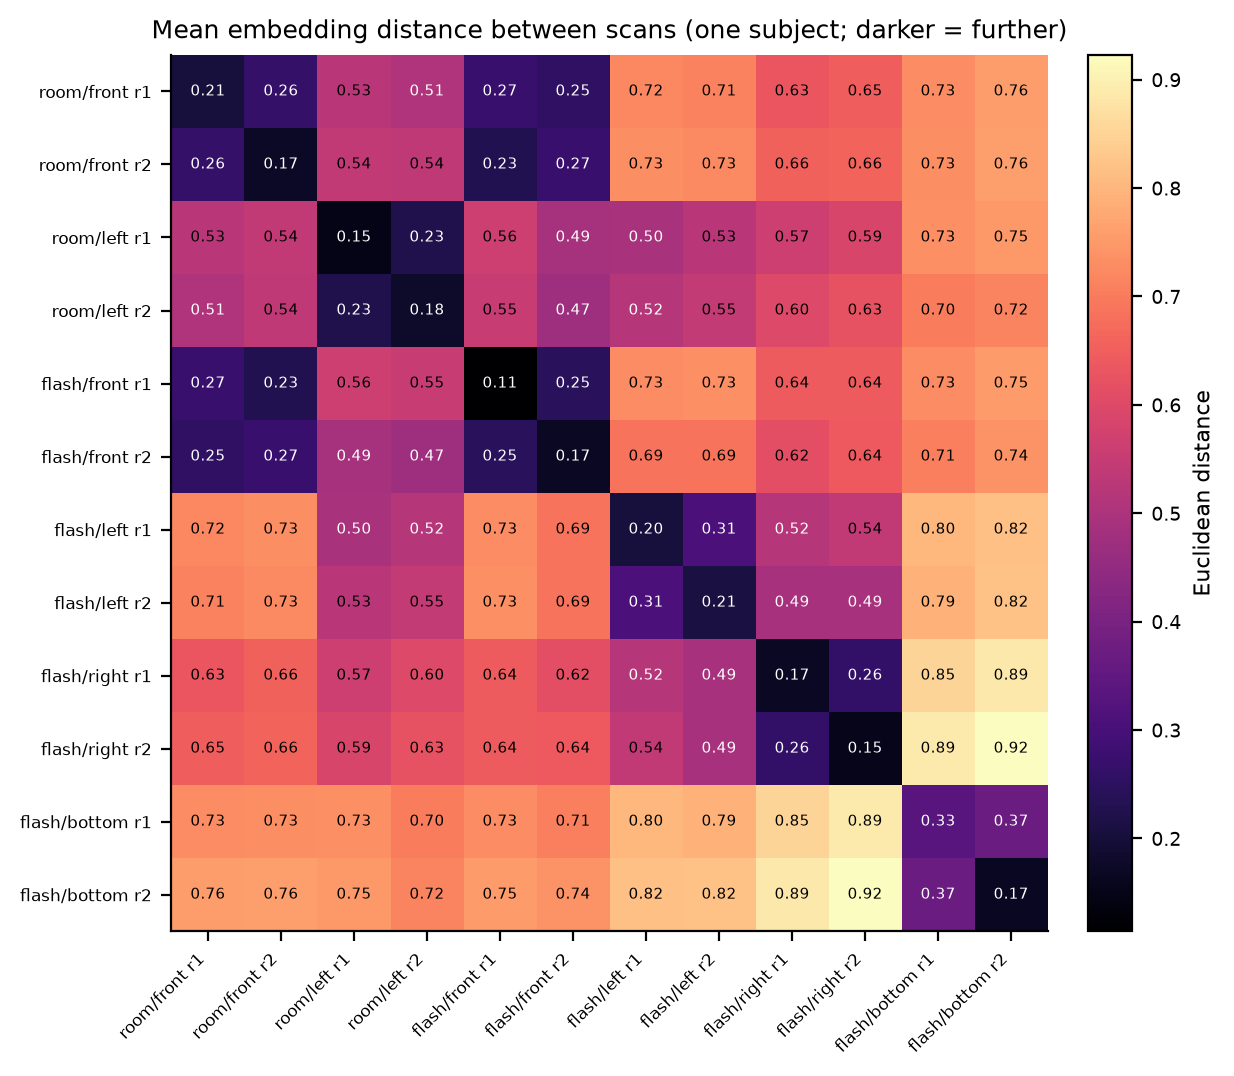
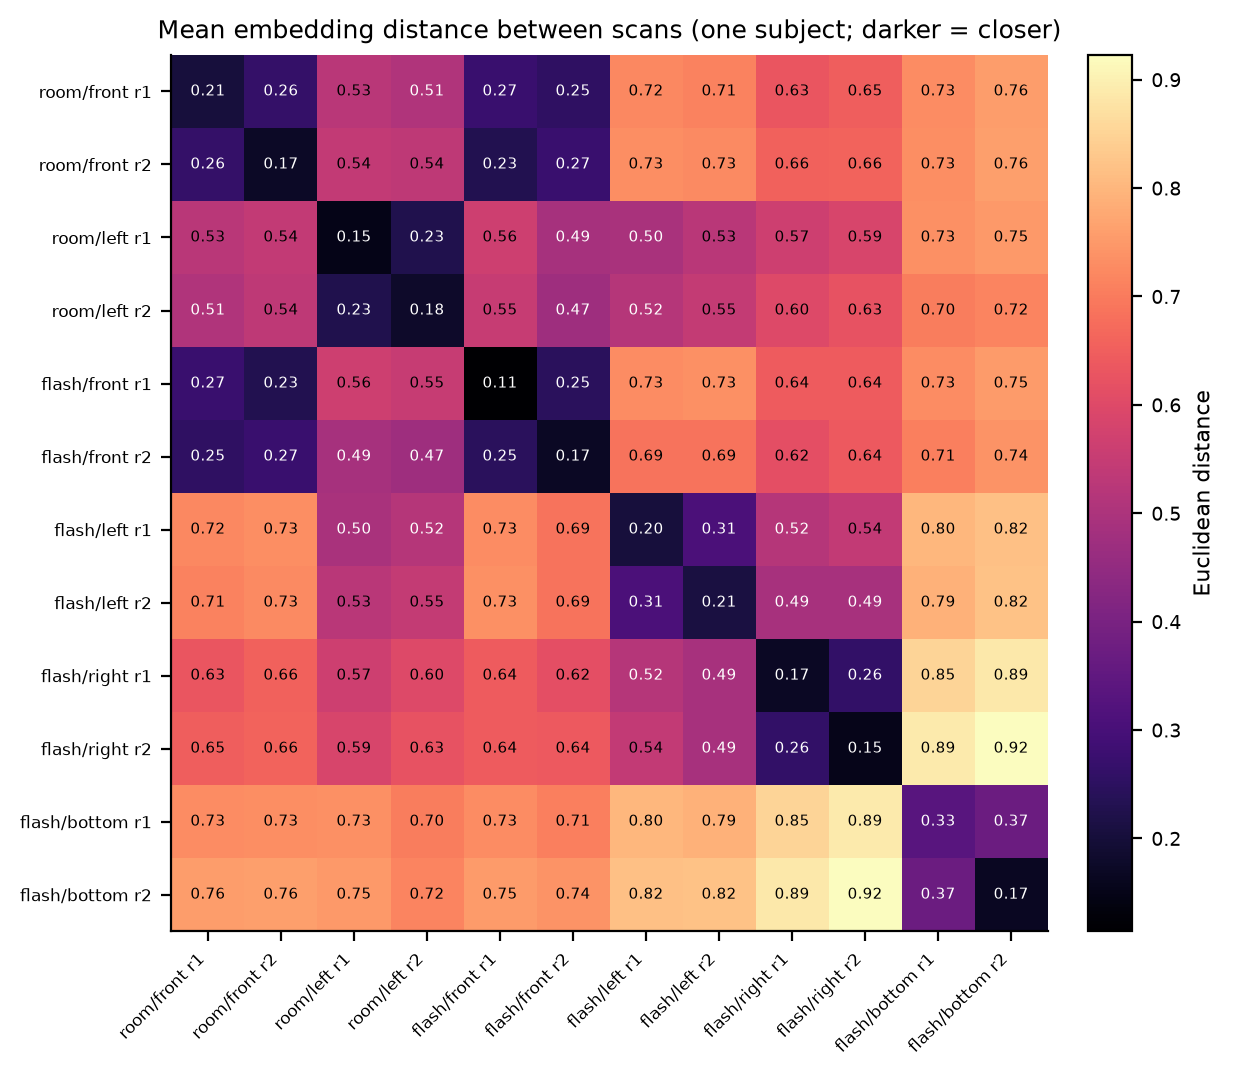
Fix live heatmap title: darker cells are closer, not further

Changed region(s): [[0.1232, 0.0, 0.8622, 0.0613]]

diff --git a/analysis/run_live.py b/analysis/run_live.py
@@ -398,7 +398,7 @@ def main() -> dict:
         matrix,
         tick_labels,
         FIGURES_DIR / "live_heatmap",
-        title="Mean embedding distance between scans (one subject; darker = further)",
+        title="Mean embedding distance between scans (one subject; darker = closer)",
     )
     save_lighting_panel(payload, FIGURES_DIR / "live_lighting")
     save_pooling(frame_level, pooled_values, FIGURES_DIR / "live_pooling")
